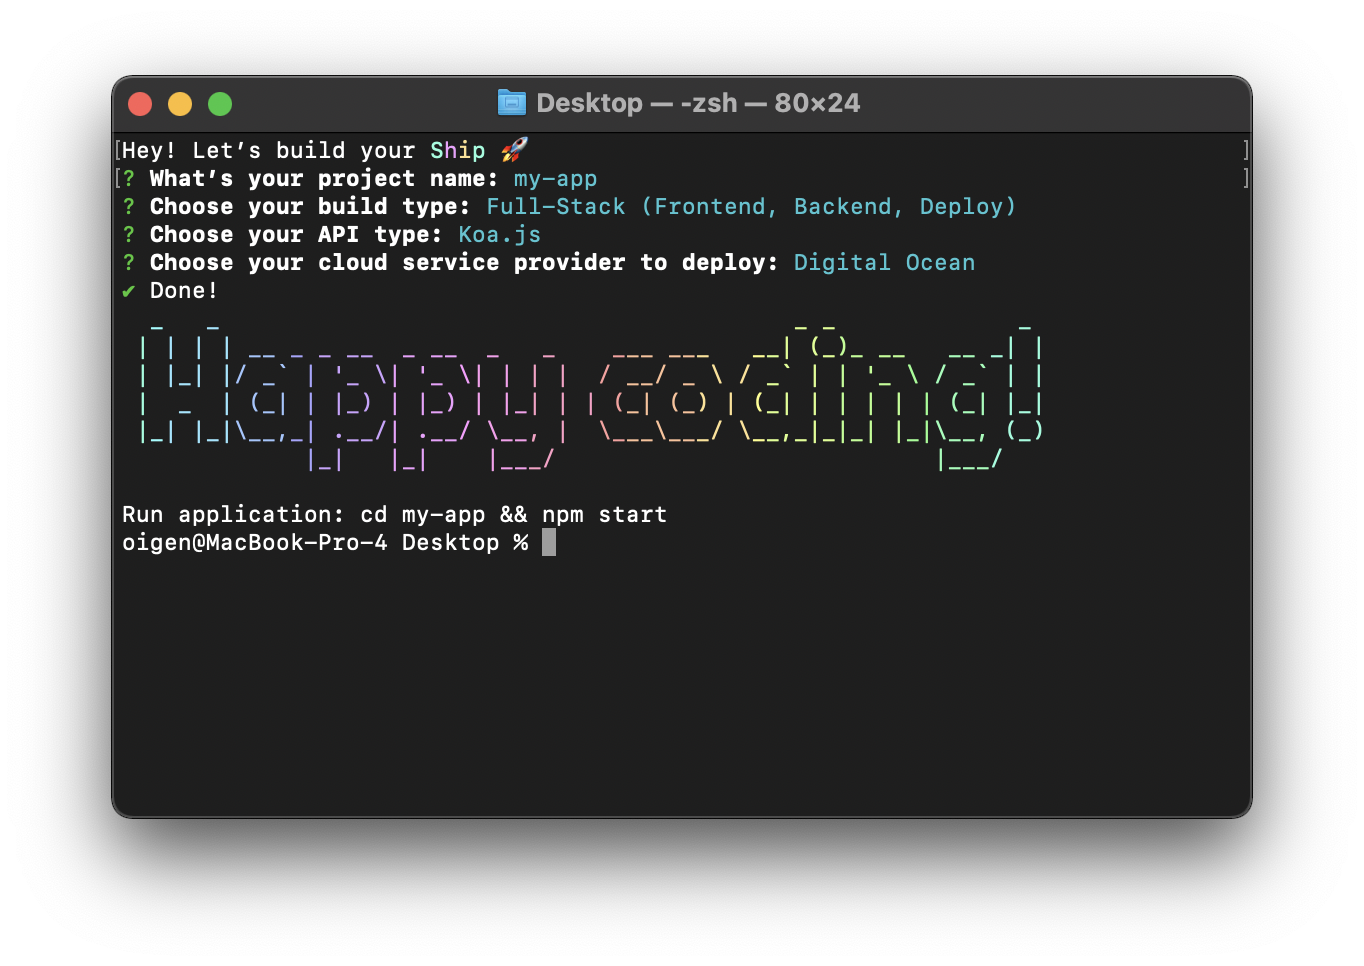
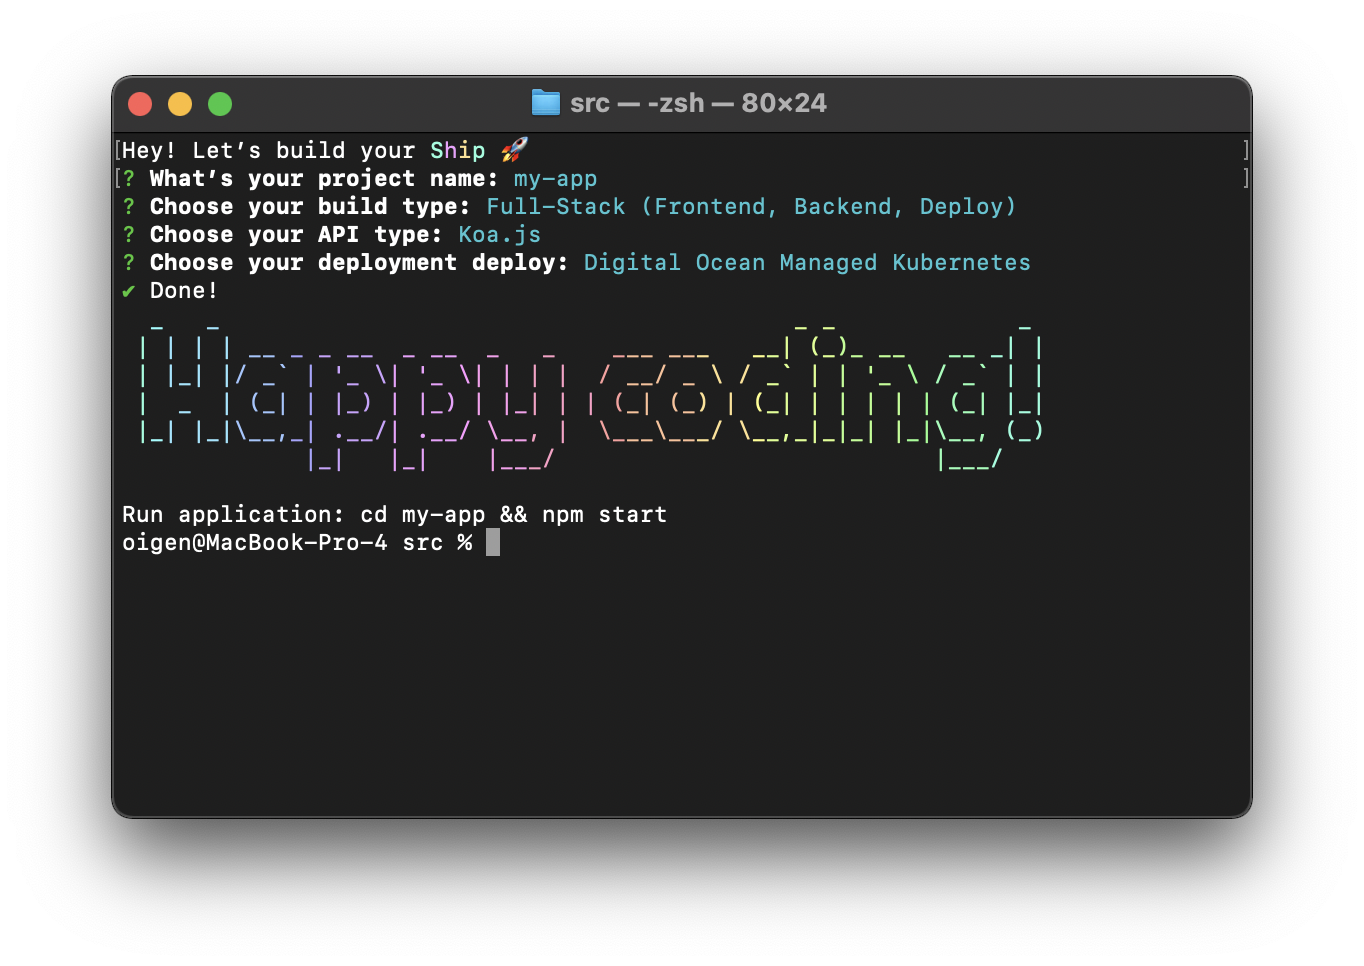
update images

Changed region(s): [[0.2155, 0.2484, 0.7698, 0.2795], [0.3387, 0.0932, 0.6466, 0.1242], [0.3079, 0.528, 0.4311, 0.5901]]

diff --git a/doc/docs/packages/create-ship-app.md b/doc/docs/packages/create-ship-app.md
@@ -16,9 +16,9 @@ Check out [example](https://github.com/paralect/ship/tree/master/examples/base) 
 
 ### Build type
 
-- Only Frontend - include [**Web**](/docs/web/overview) service;
-- Only Backend - include [**API**](/docs/api/overview), [**Scheduler**](/docs/scheduler.md) and [**Migrator**](/docs/migrator.md) services;
-- Full-Stack - include [**Web**](/docs/web/overview), [**API**](/docs/api/overview), [**Scheduler**](/docs/scheduler.md), [**Migrator**](/docs/migrator.md) and [**Deployment**](/docs/deployment/kubernetes/overview.md) services;
+- Only Frontend - includes [**Web**](/docs/web/overview) service;
+- Only Backend - includes [**API**](/docs/api/overview), [**Scheduler**](/docs/scheduler.md) and [**Migrator**](/docs/migrator.md) services;
+- Full-Stack - includes [**Web**](/docs/web/overview), [**API**](/docs/api/overview), [**Scheduler**](/docs/scheduler.md), [**Migrator**](/docs/migrator.md) and [**Deployment**](/docs/deployment/kubernetes/overview.md) services;
 
 ### API type
 
@@ -29,8 +29,8 @@ Check out [example](https://github.com/paralect/ship/tree/master/examples/base) 
 ### Deployment type
 
 - [**Digital Ocean Apps**](/docs/deployment/digital-ocean-apps.md)
-- [**Digital Ocean Kubernetes**](/docs/deployment/kubernetes/digital-ocean.md)
-- [**AWS Kubernetes**](/docs/deployment/kubernetes/aws.md)
+- [**Digital Ocean Managed Kubernetes**](/docs/deployment/kubernetes/digital-ocean.md)
+- [**AWS EKS**](/docs/deployment/kubernetes/aws.md)
 
 ## Usage
 

diff --git a/doc/docs/deployment/kubernetes/digital-ocean.md b/doc/docs/deployment/kubernetes/digital-ocean.md
@@ -26,7 +26,7 @@ Also, you need [git](https://git-scm.com/) and [Node.js](https://nodejs.org/en/)
 
 ## Setup project
 
-First, initialize your project. Type ```npx create-ship-app init``` in the terminal then choose **Full-Stack** build type and **Digital Ocean** as a cloud service provider.
+First, initialize your project. Type ```npx create-ship-app init``` in the terminal then choose **Full-Stack** build type and **Digital Ocean Managed Kubernetes** deployment type.
 
 ![Init project](/img/deployment/digital-ocean/init-project.png)
 
